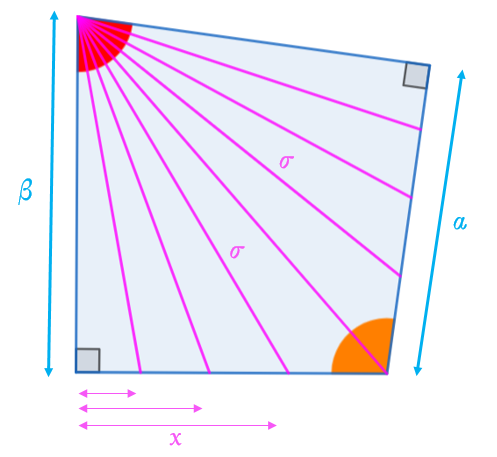
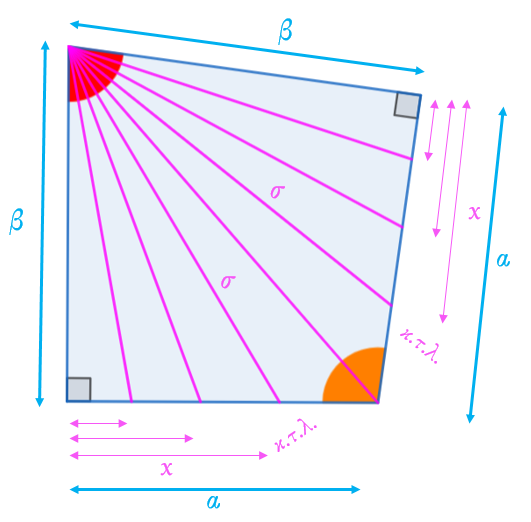
default stairs
προεπιλογες για τη σκάλα

Changed region(s): [[0.0, 0.0306, 0.9658, 0.9803], [0.6338, 0.337, 0.7243, 0.3982], [0.8149, 0.7659, 0.8451, 0.8271]]

diff --git a/stairs.html b/stairs.html
@@ -87,15 +87,15 @@
                 <div class="space-y-6">
                     <div>
                         <label for="a" class="block text-sm font-medium text-gray-300 mb-1">Απόσταση από το σημείο που αρχίζουν να στρίβουν τα σκαλοπάτια, μέχρι τη γωνία του τοίχου (α)</label>
-                        <input type="number" id="a" value="10.15" step="0.01" class="w-full form-input rounded-md p-2">
+                        <input type="number" id="a" value="86.69" step="0.01" class="w-full form-input rounded-md p-2">
                     </div>
                     <div>
                         <label for="b" class="block text-sm font-medium text-gray-300 mb-1">Πλάτος σκαλοπατιών (β)</label>
-                        <input type="number" id="b" value="9" step="0.01" class="w-full form-input rounded-md p-2">
+                        <input type="number" id="b" value="77.14" step="0.01" class="w-full form-input rounded-md p-2">
                     </div>
                     <div>
                         <label for="n" class="block text-sm font-medium text-gray-300 mb-1">Αριθμός σκαλοπατιών στη στροφή</label>
-                        <input type="number" id="n" value="12" step="1" class="w-full form-input rounded-md p-2">
+                        <input type="number" id="n" value="8" step="1" class="w-full form-input rounded-md p-2">
                     </div>
                 </div>
 
